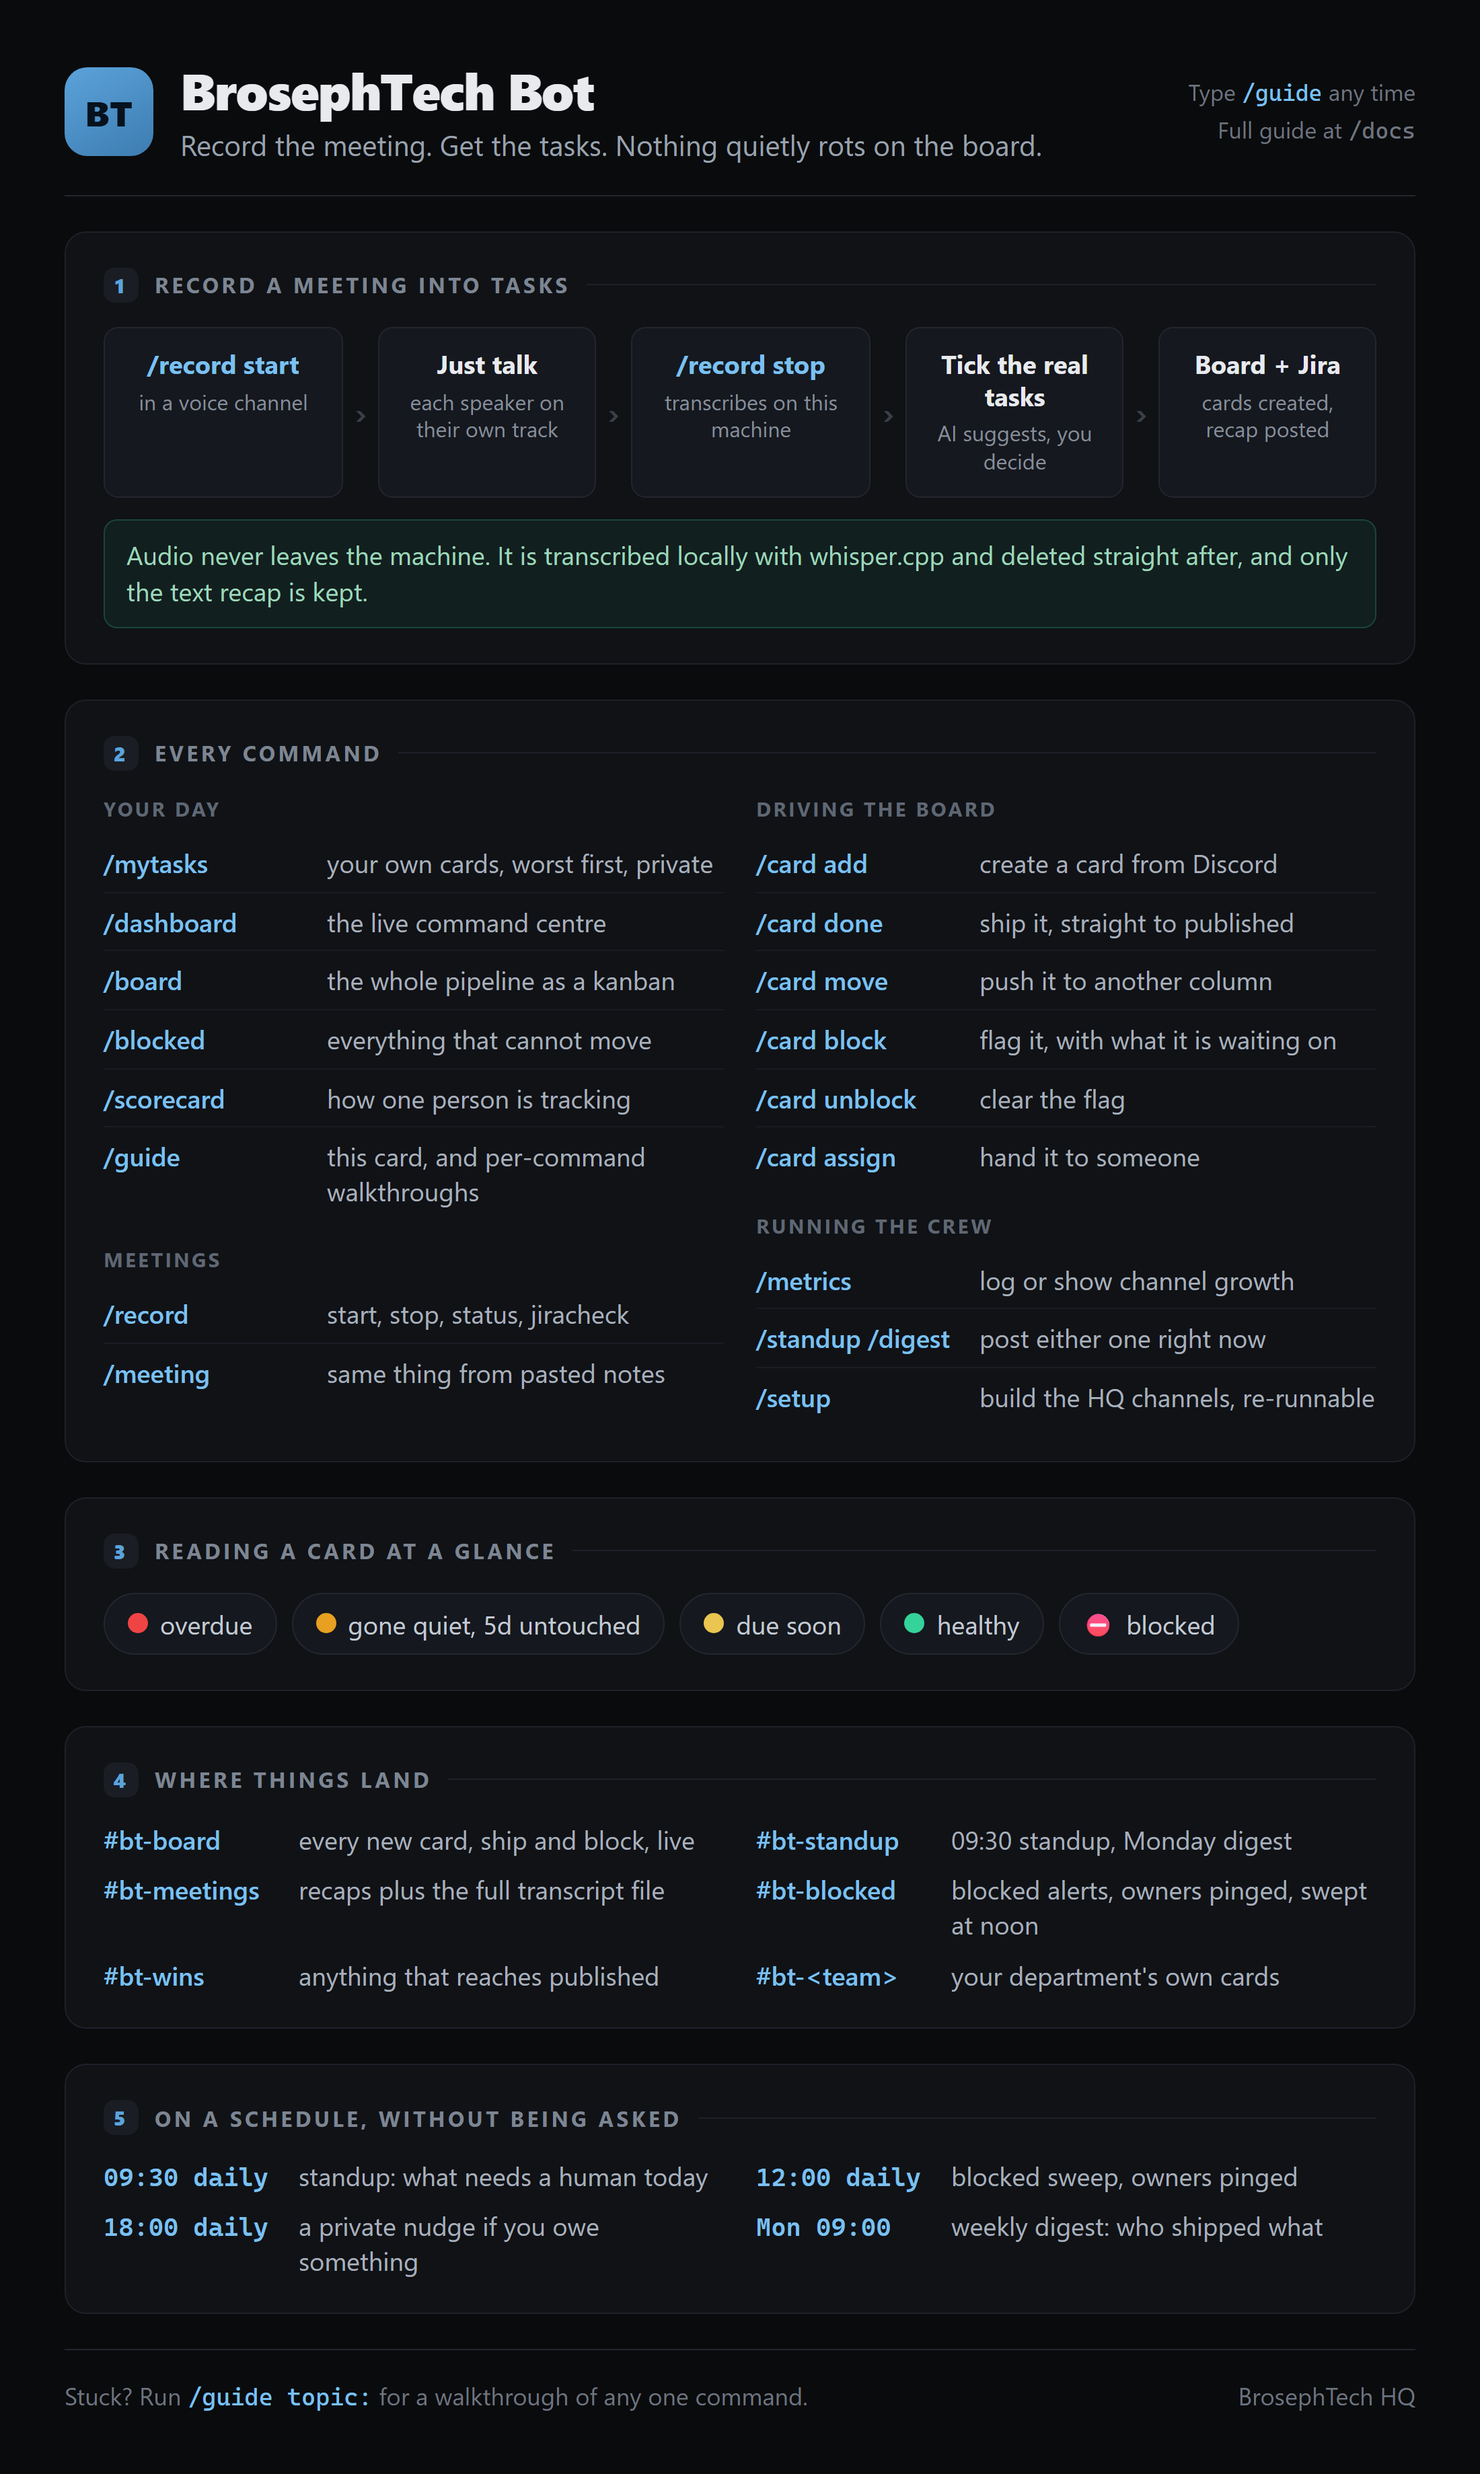
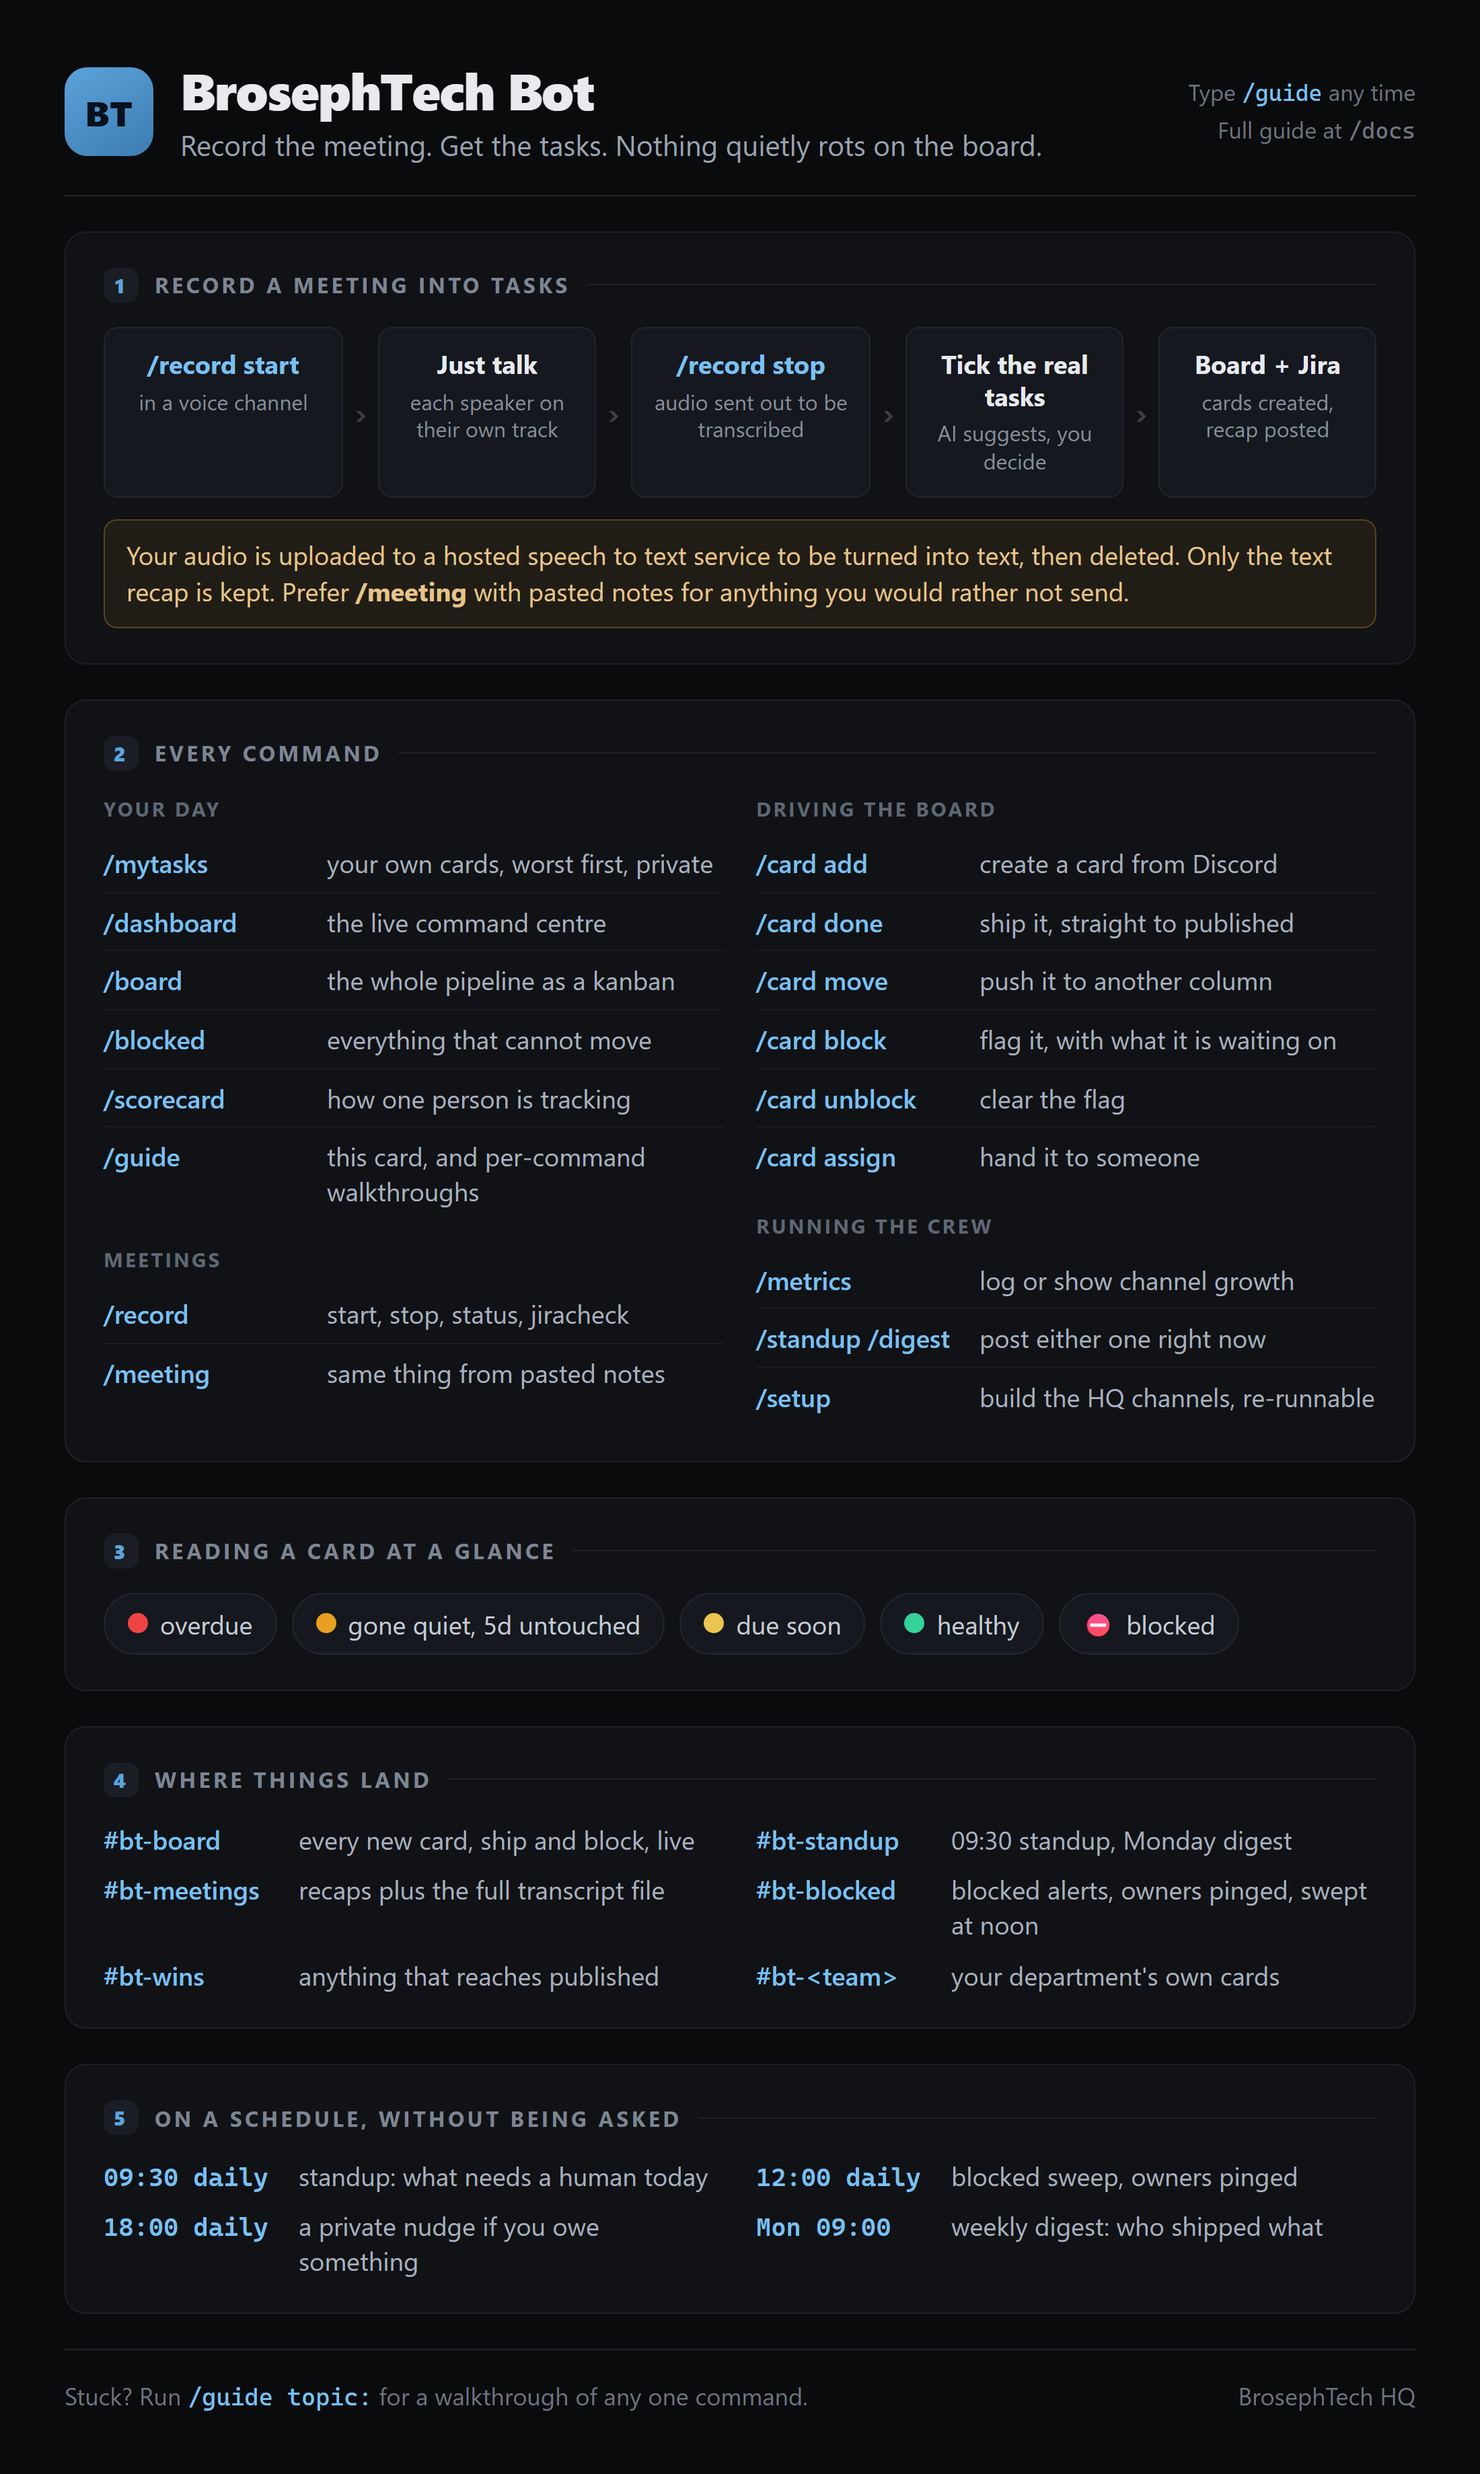
chore(bt-bot): regenerate the poster and quick-ref for the new privacy copy
The disclosure was rendering in the green "good news" style inherited from when
this note said audio never left the machine. Amber now: it is a caveat the
reader should weigh, and styling it as reassurance undercut the words.

Changed region(s): [[0.0927, 0.217, 0.8964, 0.248], [0.4636, 0.155, 0.5564, 0.186]]

diff --git a/bt-bot/docs/guide-card.html b/bt-bot/docs/guide-card.html
@@ -63,9 +63,11 @@
   .step .k.cmd{color:#7cc0f0}
   .step .v{font-size:16px;color:#868e9b;margin-top:6px;line-height:1.3}
   .chev{display:flex;align-items:center;color:#3a3f49;font-size:24px;font-weight:700}
+  /* Amber, not green. This is a privacy disclosure, not reassurance, and
+     styling it as good news would undercut the words. */
   .flownote{
-    margin-top:16px;font-size:19px;color:#9fd6bb;
-    background:rgba(52,211,153,.07);border:1px solid rgba(52,211,153,.22);
+    margin-top:16px;font-size:19px;color:#e6c48a;
+    background:rgba(232,160,32,.08);border:1px solid rgba(232,160,32,.30);
     border-radius:10px;padding:12px 16px;line-height:1.45;
   }
 
